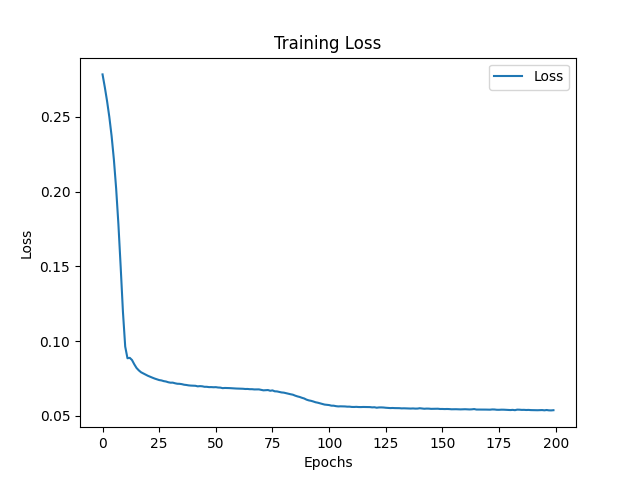
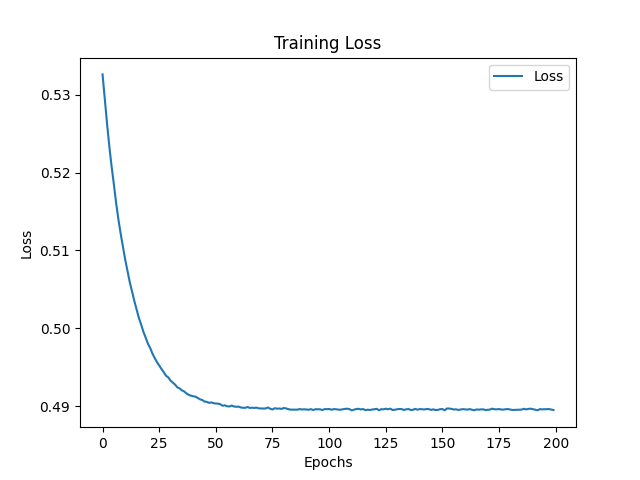
final update

diff --git a/main_pt.py b/main_pt.py
@@ -4,22 +4,57 @@ import torch.optim as optim
 import matplotlib.pyplot as plt
 import os
 from sklearn.preprocessing import MinMaxScaler
+import argparse
+import yaml
+from tqdm import tqdm
+import numpy as np
+import random
+import torch.backends.cudnn as cudnn
 
 from src.MovieLensData import MovieLensData
 from src.GraphFeatures import GraphFeatures
 from src.AutoEncoderModel_pt import AutoEncoder
 from src.RecommendationSystem import RecommendationSystem
 
+def setSeeds():
+    # Set seed
+    torch.manual_seed(0)
+    torch.cuda.manual_seed(0)
+    torch.cuda.manual_seed_all(0)
+    np.random.seed(0)
+    cudnn.benchmark = False
+    cudnn.deterministic = True
+    random.seed(0)
+    torch.set_grad_enabled(True)
 
+def arg_init():
+    parser = argparse.ArgumentParser()
+    parser.add_argument('--config', type=str, default='none', help='Path to the config file.')
+    return parser.parse_args()
+
+def getConfig(path):
+    configFile = yaml.load(open(path, 'r'), Loader=yaml.Loader)
+    return configFile
 
 if __name__ == '__main__':
 
+    # Set seeds for reproducibility
+    setSeeds()
+
+    # Parse arguments
+    userConfigPath = arg_init().config
+    if userConfigPath == None:
+        print("No configuration file specified")
+        exit(0)
+    config = getConfig(userConfigPath)
+
+
     # Load data
-    data_path_100k = 'Datasets/100k/ml-100k/'
-    data_path_1m = 'Datasets/1m/ml-1m/'
+    data_path_100k = config['DATASET']['DATA_PATH_100K']
+    data_path_1m = config['DATASET']['DATA_PATH_1M']
 
     # Choose the dataset - '100k' or '1m'
-    dataType = '100k'
+    dataType = config["EXPERIMENT"]["TYPE"]
 
 
 
@@ -64,28 +99,38 @@ if __name__ == '__main__':
     autoencoder = AutoEncoder(input_dim=input_dim)
 
     # Training the autoencoder
-    criterion = nn.MSELoss()
-    optimizer = optim.Adam(autoencoder.parameters(), lr=0.001)
+    if config["EXPERIMENT"]["LOSS"] == "MSE":
+        criterion = nn.MSELoss()
+    else:
+        criterion = nn.L1Loss()
 
-    num_epochs = 200
-    batch_size = 256
+    optimizer = optim.Adam(autoencoder.parameters(), lr=config["EXPERIMENT"]["LEARNING_RATE"], weight_decay=config["EXPERIMENT"]["WEIGHT_DECAY"])
+
+    num_epochs = config["EXPERIMENT"]["NUM_EPOCHS"]
+    batch_size = config["EXPERIMENT"]["BATCH_SIZE"]
 
     train_loader = torch.utils.data.DataLoader(X_train_tensor, batch_size=batch_size, shuffle=True)
 
     loss_history = []
 
-    for epoch in range(num_epochs):
-        epoch_loss = 0
-        for data in train_loader:
-            optimizer.zero_grad()
-            output = autoencoder(data)
-            loss = criterion(output, data) + autoencoder.regularization_loss()
-            loss.backward()
-            optimizer.step()
-            epoch_loss += loss.item()
-        epoch_loss /= len(train_loader)
-        loss_history.append(epoch_loss)
-        print(f'Epoch [{epoch+1}/{num_epochs}], Loss: {epoch_loss:.4f}')
+    with tqdm(range(num_epochs), desc="Training Epochs") as outer:
+        for epoch in outer:
+            epoch_loss = 0
+            # Create the inner tqdm object
+            with tqdm(train_loader, desc=f"Epoch {epoch+1}/{num_epochs}", leave=False) as inner:
+                for data in inner:
+                    optimizer.zero_grad()
+                    output = autoencoder(data)
+                    loss = criterion(output, data) + autoencoder.regularization_loss()
+                    loss.backward()
+                    optimizer.step()
+                    epoch_loss += loss.item()
+                    # Update the inner tqdm object with the current loss
+                    inner.set_postfix(loss=loss.item())
+            epoch_loss /= len(train_loader)
+            loss_history.append(epoch_loss)
+            # Update the outer tqdm object with the epoch loss
+            outer.set_postfix(loss=epoch_loss)
 
     # Extracting encoded features
     print("Getting encoded features and plotting training history...")
@@ -110,7 +155,10 @@ if __name__ == '__main__':
 
     # Cluster users and evaluate the recommendation system
     print("Clustering users and evaluating the recommendation system...")
-    recommendation_system.cluster_users(encoded_features, n_clusters=8)
+    if config["CLUSTERING"]['METHOD'] == "k-means":
+        recommendation_system.cluster_users_kmeans(encoded_features, n_clusters=config["CLUSTERING"]["NUM_CLUSTERS"])
+    else:
+        recommendation_system.cluster_users_dbscan(encoded_features, eps=config["CLUSTERING"]["EPS"], min_samples=config["CLUSTERING"]["MIN_SAMPLES"])
 
     rmse = recommendation_system.evaluate(test_data)
     print(f'Root Mean Squared Error on Test Data: {rmse}')

diff --git a/main_tf.py b/main_tf.py
@@ -2,6 +2,11 @@ import numpy as np
 import matplotlib.pyplot as plt
 import os
 from sklearn.preprocessing import  MinMaxScaler
+import argparse
+import yaml
+import tensorflow as tf
+import os
+
 
 from src.MovieLensData import MovieLensData
 from src.GraphFeatures import GraphFeatures
@@ -9,13 +14,44 @@ from src.AutoEncoderModel_tf import AutoEncoderModel
 from src.RecommendationSystem import RecommendationSystem
 
 
+def setSeeds(seed = 0):
+    # Set seed
+    tf.random.set_seed(seed)
+    
+    # Set environment variable for TensorFlow (useful for certain operations)
+    os.environ['PYTHONHASHSEED'] = str(seed)
+    
+    # Ensure reproducibility for TensorFlow dataset operations
+    from tensorflow.python.framework import random_seed
+    random_seed.set_random_seed(seed)
+
+def arg_init():
+    parser = argparse.ArgumentParser()
+    parser.add_argument('--config', type=str, default='none', help='Path to the config file.')
+    return parser.parse_args()
+
+def getConfig(path):
+    configFile = yaml.load(open(path, 'r'), Loader=yaml.Loader)
+    return configFile
+
 if __name__ == '__main__':
+    # Set seeds for reproducibility
+    setSeeds(0)
+
+    # Parse arguments
+    userConfigPath = arg_init().config
+    if userConfigPath == None:
+        print("No configuration file specified")
+        exit(0)
+    config = getConfig(userConfigPath)
+
+
     # Load data
-    data_path_100k = 'Datasets/100k/ml-100k/'
-    data_path_1m = 'Datasets/1m/ml-1m/'
+    data_path_100k = config['DATASET']['DATA_PATH_100K']
+    data_path_1m = config['DATASET']['DATA_PATH_1M']
 
     # Choose the dataset - '100k' or '1m'
-    dataType = '100k'
+    dataType = config["EXPERIMENT"]["TYPE"]
 
 
 
@@ -68,7 +104,10 @@ if __name__ == '__main__':
 
     # Cluster users and evaluate the recommendation system
     print("Clustering users and evaluating the recommendation system...")
-    recommendation_system.cluster_users(encoded_features, n_clusters=8)
+    if config["CLUSTERING"]['METHOD'] == "k-means":
+        recommendation_system.cluster_users_kmeans(encoded_features, n_clusters=config["CLUSTERING"]["NUM_CLUSTERS"])
+    else:
+        recommendation_system.cluster_users_dbscan(encoded_features, eps=config["CLUSTERING"]["EPS"], min_samples=config["CLUSTERING"]["MIN_SAMPLES"])
 
     rmse = recommendation_system.evaluate(test_data)
     print(f'Root Mean Squared Error on Test Data: {rmse}')

diff --git a/src/RecommendationSystem.py b/src/RecommendationSystem.py
@@ -4,6 +4,7 @@ from sklearn.cluster import KMeans
 from sklearn.metrics import mean_squared_error
 import matplotlib.pyplot as plt
 import seaborn as sns
+from sklearn.cluster import DBSCAN
 
 
 
@@ -15,12 +16,21 @@ class RecommendationSystem:
         self.df_ratings = train_data
         self.df_user = df_user
 
-    def cluster_users(self, encoded_features, n_clusters=3):
+    def cluster_users_kmeans(self, encoded_features, n_clusters=3):
         """
         Cluster users using k-means clustering on the encoded features.
         """
         kmeans = KMeans(n_clusters=n_clusters, random_state=42)
         clusters = kmeans.fit_predict(encoded_features)
+        self.df_user['Cluster'] = clusters
+        return clusters
+    
+    def cluster_users_dbscan(self, encoded_features, eps=0.5, min_samples=5):
+        """
+        Cluster users using DBSCAN clustering on the encoded features.
+        """
+        dbscan = DBSCAN(eps=eps, min_samples=min_samples)
+        clusters = dbscan.fit_predict(encoded_features)
         self.df_user['Cluster'] = clusters
         return clusters
 

diff --git a/src/AutoEncoderModel_pt.py b/src/AutoEncoderModel_pt.py
@@ -49,3 +49,6 @@ class AutoEncoder(nn.Module):
             l1_loss += torch.sum(torch.abs(param))
             l2_loss += torch.sum(param ** 2)
         return self.l1 * l1_loss + self.l2 * l2_loss
+    
+
+    
